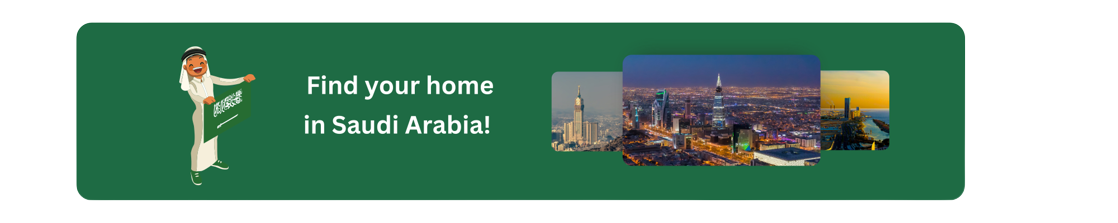
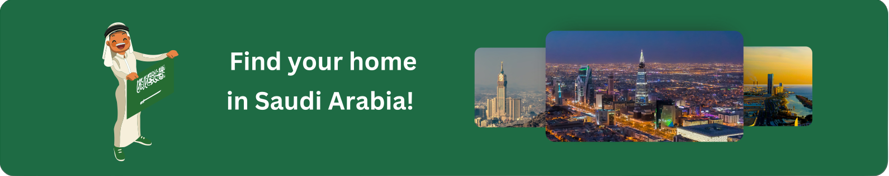
added carousel

diff --git a/src/components/Card/CardForOurServics.jsx b/src/components/Card/CardForOurServics.jsx
@@ -175,17 +175,15 @@ const AddWithCarousel = (props) => {
           </Grid>
         </Grid>
       </Grid>
-
       <Box
         sx={{
           mt: "-50px",
           marginX: "auto",
-          backgroundRepeat: "no-repeat",
-          backgroundSize: "cover",
-          borderRadius: "8px",
+          borderRadius: "25px",
+          boxShadow: "0px 0px 15px  rgba(0,0,0,0.7)",
         }}
       >
-        <img src={SaudiRoommate} alt={"saudi roommate"} style={{}} />
+        <img src={SaudiRoommate} alt={"saudi roommate"} />
       </Box>
     </Grid>
   );
